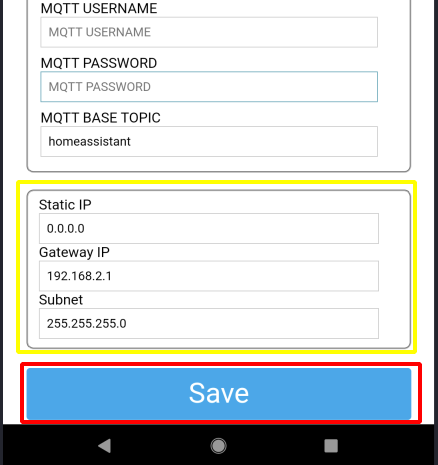
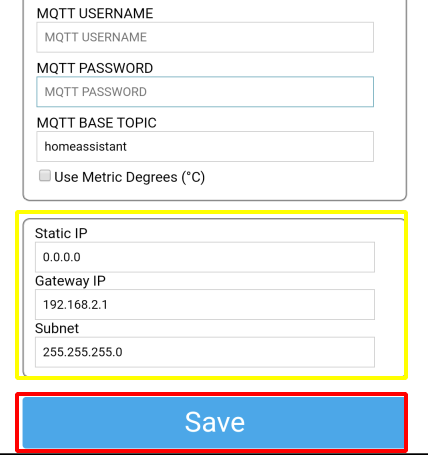
add configurable degree units to portal

diff --git a/config.h b/config.h
@@ -40,12 +40,15 @@
 #define MQTT_PASSWORD            "password"
 #define MQTT_BASETOPIC           "igrill" //If you are using Home Assistant you should set this to your discovery_prefix (default: homeassistant)
 
-// Labels and max field lengths MQTT Custom parameters used in the Configuration Portal
-#define MQTT_SERVER_Label             "MQTT_SERVER_Label"
-#define MQTT_SERVERPORT_Label         "MQTT_SERVERPORT_Label"
-#define MQTT_USERNAME_Label           "MQTT_USERNAME_Label"
-#define MQTT_PASSWORD_Label           "MQTT_PASSWORD_Label"
-#define MQTT_BASETOPIC_Label           "MQTT_BASETOPIC_Label"
+
+// Labels and max field lengths MQTT Custom parameters used in the JSON File Created From The Configuration Portal Data
+#define MQTT_SERVER_Label             "MQTT_SERVER"
+#define MQTT_SERVERPORT_Label         "MQTT_SERVERPORT"
+#define MQTT_USERNAME_Label           "MQTT_USERNAME"
+#define MQTT_PASSWORD_Label           "MQTT_PASSWORD"
+#define MQTT_BASETOPIC_Label          "MQTT_BASETOPIC"
+#define USE_METRIC_DEGREES_Label      "METRIC_DEGREES"
+
 // MQTT Field Lengths (Change the Lengths here if the field isnt large enough)
 #define custom_MQTT_SERVER_LEN       20
 #define custom_MQTT_PORT_LEN          5

diff --git a/README.md b/README.md
@@ -125,7 +125,8 @@ When the device is in configuarion mode it will start a wireless access point na
    * Discovered networks will show up in the area noted by the green box.
    * By selecting a discovered network it will autopopulate that name into the SSID field.
    * If you only have one network you can leave SSID1 and its corresponding password field blank
-   * Populate the missing MQTT Information</br>
+   * Populate the missing MQTT Information
+   * Choose Imperial or Metric Units for Degrees (make sure to match the setting on your iGrill device)</br>
     ![wm_wifi_mqtt](https://github.com/1mckenna/esp32_iGrill/blob/main/images/wm_wifi_mqtt.png?raw=true)    
 6. Configure IP Settings
    * <b>Leave the current values shown alone if you wish to use DHCP.</b>
@@ -180,6 +181,8 @@ We only set the retain flag on the following topics
     * This can happen due to the reset of the board after flashing getting detected as a second press of the reset button. Just press the reset button on hte board once to reboot the device out of configuration mode.
   * I cannot connect to the iGrill Device
     * iGrill Devices can only be connected to a single device at a time. For best results unpair the iGrill from all phones/tablets that it has been conncetd to in the past.
+  * Home Assistant is not showing the correct temperatures but the temperature shown on the device is correct.
+    * Make sure the Use Metric Degrees setting in the configuration portal matches the setting on your iGrill device.
 
 ## Change Serial Logging Level
 If you are running into an issue and want to increase the verbosity of the logging that can be done via the following two settings in <b>config.h</b>
